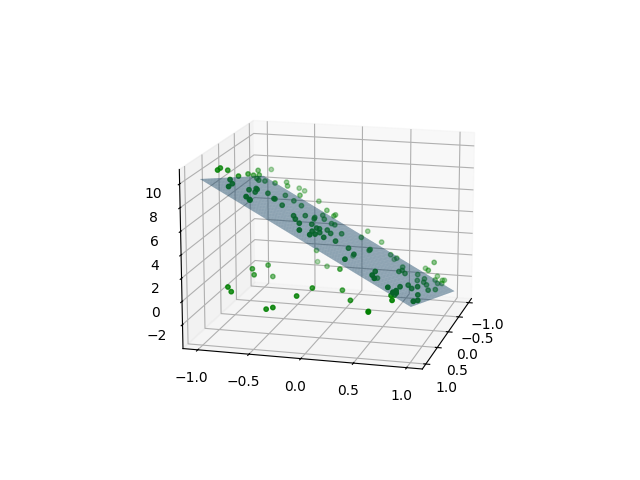
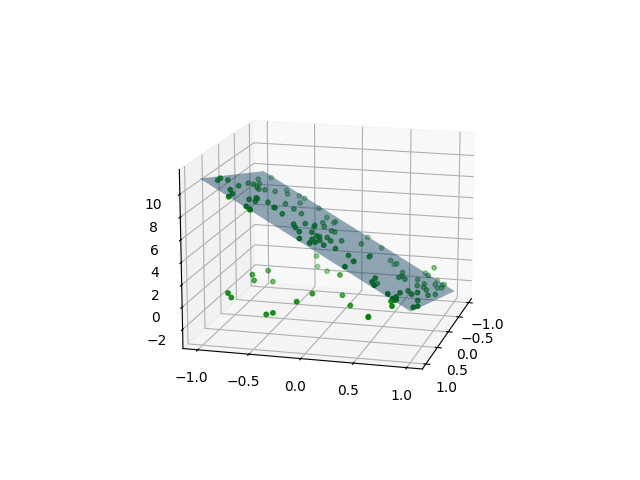
debug: hw1 do not use SVD to compute normal vector
Former-commit-id: aea65b43930ea555c03919095b3e29fba15f66cb

diff --git a/homework/homework-1/assignment-01/HM1_RANSAC.py b/homework/homework-1/assignment-01/HM1_RANSAC.py
@@ -12,35 +12,27 @@ if __name__ == "__main__":
 
     # RANSAC
     # Please formulate the palnace function as:  A*x+B*y+C*z+D=0
-
-    '''
-    (1-w^n)^k < 1-p 
-    ⇒ k > log(1-p)/log(1-w^n) 
-    
-    w = 1 - (outliers / total points) ~ 1 - 24 / 130 = 0.815385 (can be seen from the plot)
-    n = 3 (number of points needed to fit a plane)
-    p = 0.999 (probability of at least one hypothesis does not contain any outliers)
-    ⇒ k > log(1-0.999)/log(1-0.815385^3) = 8.84
-    '''
-    expected_outliers = 19  # the number of outliers in the data
+    expected_outliers = 27  # the number of outliers in the data
     w = 1-expected_outliers/noise_points.shape[0]  # the probability that a point is an inlier
     n = 3  # number of points needed to fit a plane
     p = 0.999  # the probability of at least one hypothesis does not contain any outliers
     k = int(np.ceil(np.log(1-p)/np.log(1-w**n)))
     sample_time = k  # the minimal time that can guarantee the probability of at least one hypothesis does not contain any outliers is larger than 99.9%
     print("sample_time: ", sample_time)
-    distance_threshold = 0.8
+    distance_threshold = 0.05
 
     # sample points group
-    hypothesises_idx = np.random.choice(np.arange(noise_points.shape[0]), sample_time*3, replace=False)
+    hypothesises_idx = np.random.choice(noise_points.shape[0], size=(sample_time, 3), replace=False)  # shape: (sample_time, 130)
     hypothesises = noise_points[hypothesises_idx].reshape(sample_time, 3, 3)  # shape: (sample_time, 3, 3)
 
     # estimate the plane with sampled points group
-    Us, Ss, Vts = np.linalg.svd(hypothesises)  # The smallest singular value corresponds to the direction of the smallest extension of the data
-    normal_vectors = Vts[:, -1, :]  # shape: (sample_time, 3)
+    vector1 = hypothesises[:, 1, :] - hypothesises[:, 0, :]  # shape: (sample_time, 3)
+    vector2 = hypothesises[:, 2, :] - hypothesises[:, 0, :]  # shape: (sample_time, 3)
+    normal_vectors = np.cross(vector1, vector2)  # shape: (sample_time, 3, 3)
     Ds = -np.sum(normal_vectors * hypothesises[:, 0, :], axis=1)  # shape: (sample_time,)
     A_B_C_Ds = np.concatenate((normal_vectors, Ds.reshape(-1, 1)), axis=1)  # shape: (sample_time, 4)
 
+    # A_B_C_Ds[0] = np.array([0.2522, -0.7429, -0.1434, 0.6033])
     # evaluate inliers (with point-to-plance distance < distance_threshold)
     distance_all = np.abs(np.sum(A_B_C_Ds[:, None, :3] * noise_points, axis=2) + A_B_C_Ds[:, 3, None]) / \
         np.linalg.norm(A_B_C_Ds[:, :3], axis=1)[:, None]  # shape: (sample_time, 130)
